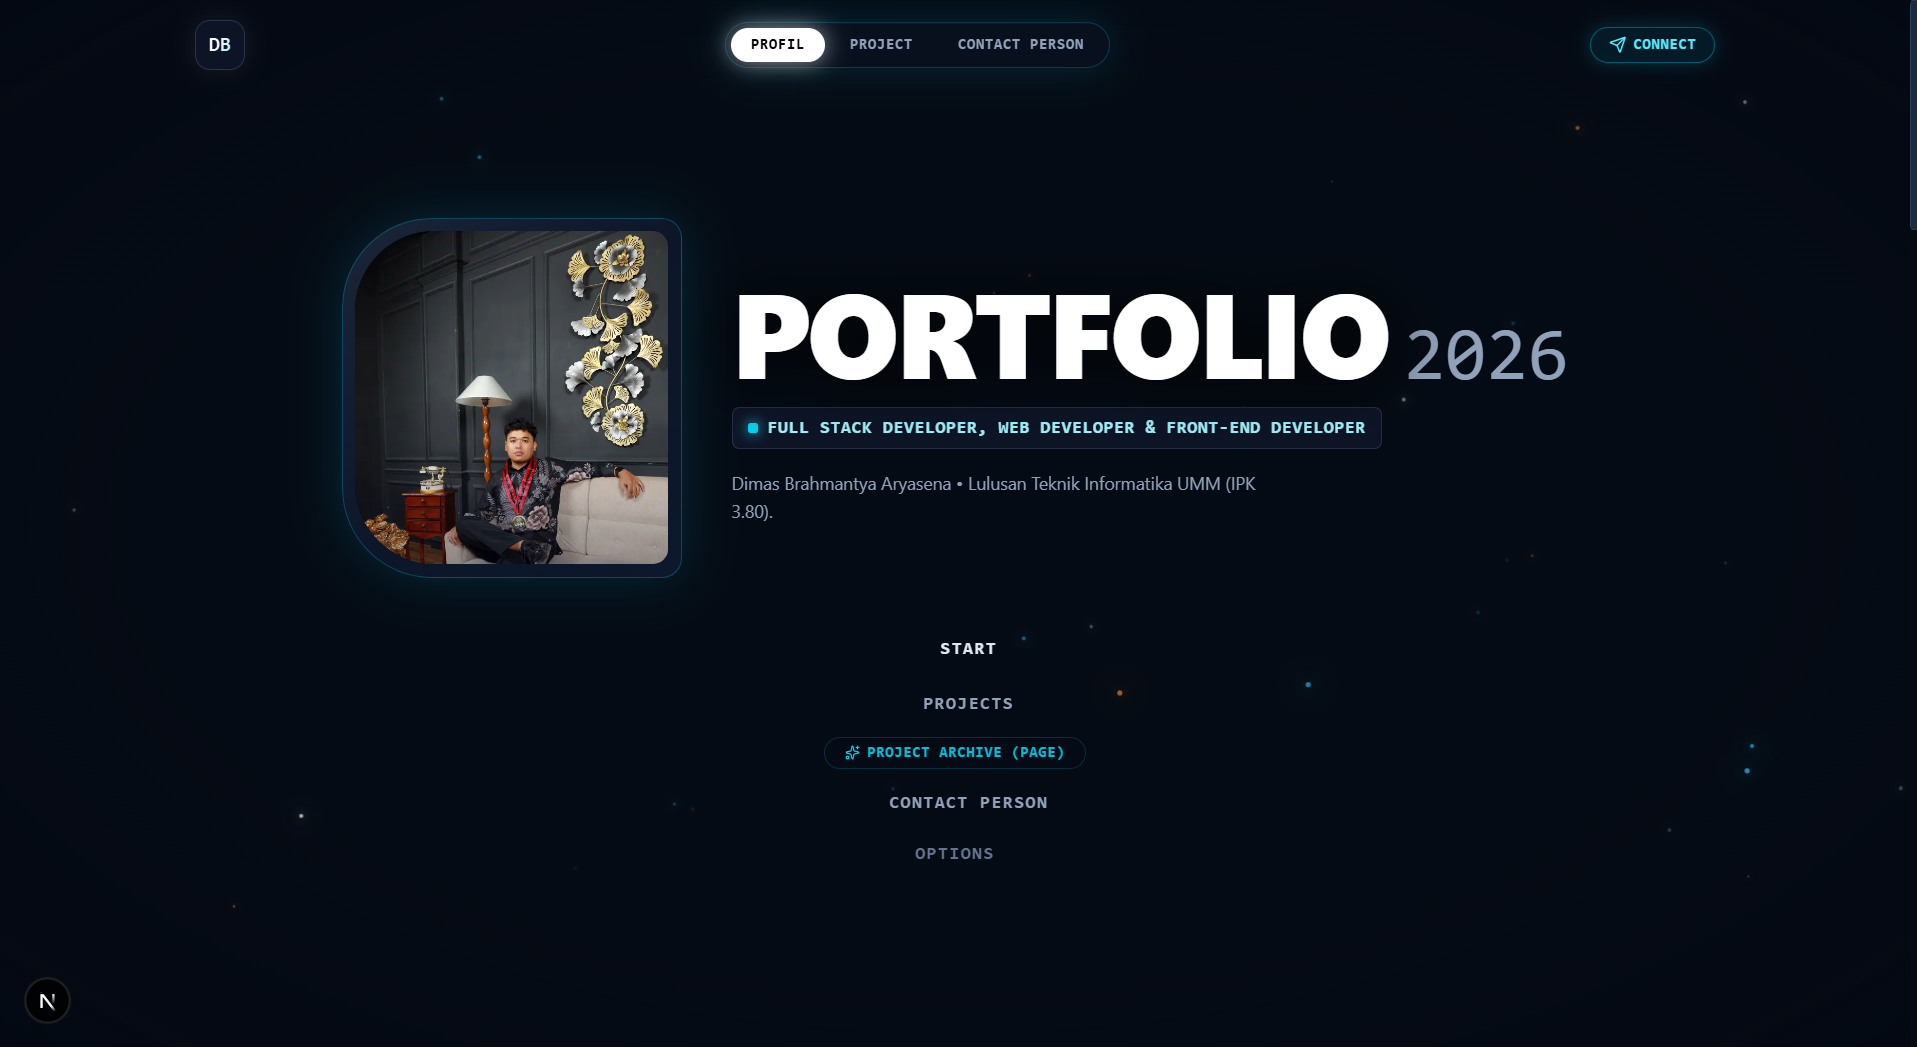
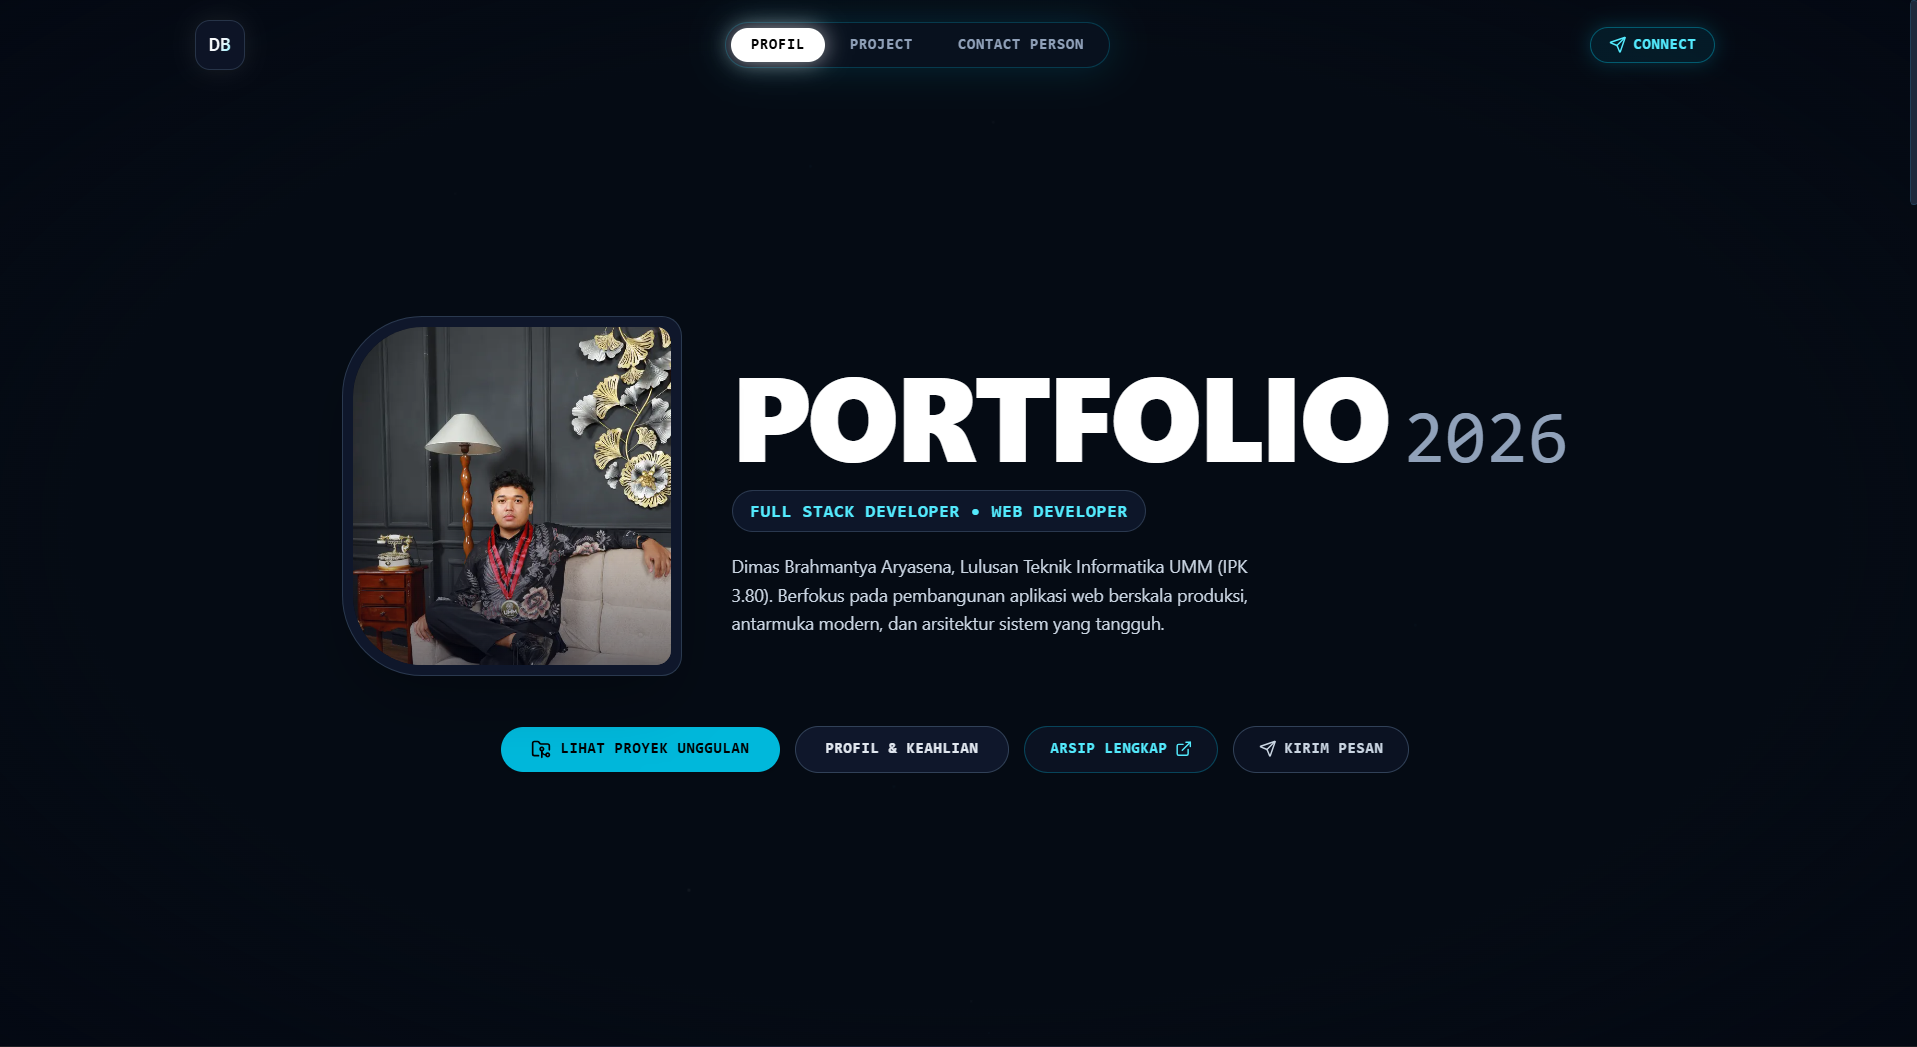
fix: foto cant render

diff --git a/app/page.tsx b/app/page.tsx
@@ -327,7 +327,7 @@ export default function Portfolio() {
                   PORTFOLIO
                 </h1>
                 <span className="text-3xl sm:text-5xl lg:text-6xl font-light text-slate-400 font-mono">
-                  2026
+                
                 </span>
               </div>
 
@@ -726,7 +726,7 @@ export default function Portfolio() {
               <div className="w-40 h-40 sm:w-48 sm:h-48 rounded-full p-1.5 bg-slate-900 border-2 border-slate-700 group-hover:border-cyan-400/60 shadow-xl transition-all duration-300">
                 <div className="relative w-full h-full rounded-full overflow-hidden bg-slate-950">
                   <Image
-                    src="/dsc_6847.JPG"
+                    src="/DSC_6847.JPG"
                     alt="Dimas Contact Avatar"
                     fill
                     sizes="(max-width: 768px) 192px, 256px"
